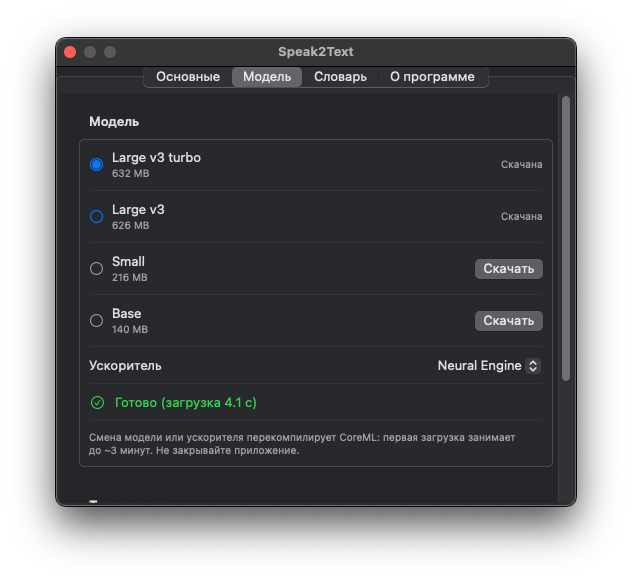
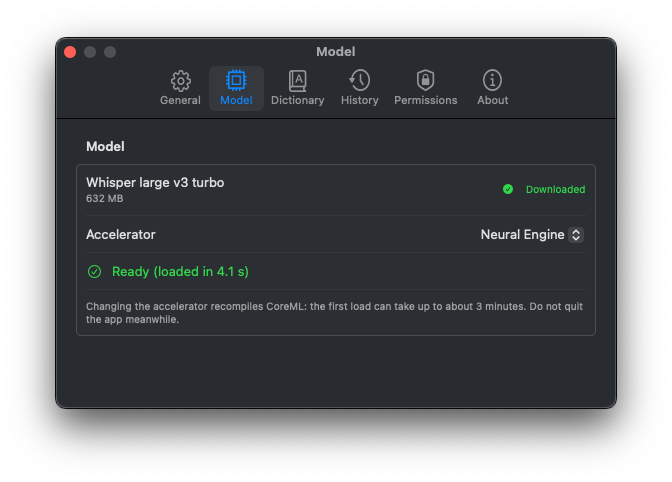
Docs and screenshots for the new settings, history and sounds

diff --git a/docs/SPEC.md b/docs/SPEC.md
@@ -1,6 +1,6 @@
 # Speak2Text — техзадание v0.1 (только macOS)
 
-Локальная диктовка: держишь клавишу, говоришь, отпускаешь, и текст вставляется туда, где стоит курсор.
+Локальная диктовка: нажимаешь клавишу, говоришь, нажимаешь ещё раз (или отпускаешь, в режиме удержания), и текст вставляется туда, где стоит курсор.
 Распознавание: WhisperKit на Neural Engine, без облака.
 
 ## Основа
@@ -9,15 +9,16 @@
 - Bundle ID `io.github.vlad-anisov.speak2text`, версия `0.1.0`.
 - Подпись: `Apple Development: Uladzislau Anisau (P3W3R69UM6)`. Подпись постоянная, поэтому разрешения TCC переживают пересборку.
 - Установка: `~/Applications/Speak2Text.app`, без sudo.
-- Модель по умолчанию — `openai_whisper-large-v3-v20240930_turbo_632MB`. Уже скачана в `~/Documents/huggingface/models/argmaxinc/whisperkit-coreml/`: сначала искать там, потом в `~/Library/Application Support/Speak2Text/Models`.
+- Единственная модель — `openai_whisper-large-v3-v20240930_turbo_632MB`. Уже скачана в `~/Documents/huggingface/models/argmaxinc/whisperkit-coreml/`: сначала искать там, потом в `~/Library/Application Support/Speak2Text/Models`.
 - Интерфейс на английском и русском, язык по системе.
 
 ## Функции
 1. **Меню-бар.**
    - Монохромная template-иконка.
-   - Пункты: статус, «Настройки…», «Проверить обновления…», «Открыть лог», «Выход».
+   - Левый клик по иконке открывает окно настроек (без выпадающего меню); если приложение уже открыто, окно выходит на передний план. Во время записи иконка меняется (`MenuBarIconRec`).
+   - Правый клик: маленькое меню «Настройки…» и «Выход».
    - Окна в Dock нет (LSUIElement).
-2. **Первый запуск.** Окно разрешений:
+2. **Первый запуск.** Настройки открываются на вкладке «Разрешения» (и при каждом запуске, если разрешений не хватает):
    - Микрофон, Мониторинг ввода, Универсальный доступ — у каждого статус ✓/✗ и кнопка «Открыть настройки»;
    - статус обновляется каждые 1–2 с.
 
@@ -26,8 +27,10 @@
    - Записать в настройках можно: одиночный модификатор с различением левого и правого (Option, Command, Control, Shift, Fn), любую обычную клавишу (F13, CapsLock и т.д.) или комбинацию (⌃⌥Space).
    - По умолчанию: правый Option.
 4. **Два режима.**
-   - Удержание (по умолчанию): держишь — запись, отпустил — вставка.
-   - Нажатие: первое нажатие — старт, второе — стоп и вставка. Esc — отмена.
+   - Нажатие (по умолчанию, «Нажать — старт, ещё раз — стоп»): первое нажатие — старт, второе — стоп и вставка. Esc — отмена.
+   - Удержание («Удерживать»): держишь — запись, отпустил — вставка.
+
+   В настройках под выбором режима одна строка-пояснение; в режиме нажатия она говорит, что Esc отменяет запись.
 
    Для модификатора в режиме удержания оставить отмену при нажатии другой клавиши или клика и при удержании меньше 0,4 с. Это защищает обычные сочетания вроде Option+буква.
 5. **Плашка (overlay).**
@@ -43,25 +46,19 @@
    - Панель не забирает фокус (non-activating NSPanel, ignoresMouseEvents), иначе вставка уйдёт не туда. Это критично.
    - Плашку можно выключить в настройках.
 6. **Заглушение других звуков** (включено по умолчанию).
-   - На время записи громкость основного устройства вывода опускается до заданного уровня (по умолчанию 0 %, ползунок 0–50 %), после — восстанавливается.
+   - На время записи громкость основного устройства вывода опускается до 0, после — восстанавливается. Заглушение включается после стартового звука, чтобы не заглушить его.
    - Если у устройства нет регулировки громкости, пропустить.
    - Исходную громкость сохранить на диск и восстановить при следующем запуске, если приложение упало во время записи.
 7. **Словарь.**
    - **Замены**: таблица «что распознано → на что заменить» (без учёта регистра, по границам слов), например «пайплайн → pipeline». Применяется к финальному тексту.
    - **Слова-паразиты** (выключено по умолчанию): редактируемый список («э», «ээ», «ну», «типа», «как бы», «короче»), удаляются вместе с запятыми рядом.
-   - **Подсказки модели (prompt)** (выключено по умолчанию): список терминов отдаётся как prompt в WhisperKit. Предупреждение в UI: «Может пропускать или дублировать слова — проверено в бенчмарке».
+   - В начале вкладки одна строка-пояснение. Подсказки модели (prompt) убраны: они пропускали и дублировали слова.
 8. **Модель и ускоритель.**
-   - Выбор модели из списка с размером: turbo 632MB (по умолчанию), large-v3 626MB, small, base. Скачивание с прогрессом через WhisperKit/HF.
+   - Одна модель: turbo 632MB. Если её нет, скачивание с прогрессом через WhisperKit/HF.
    - Язык: ru (по умолчанию), en, авто.
    - Ускоритель: Neural Engine (по умолчанию), GPU, CPU. Это ModelComputeOptions для энкодера и декодера.
-   - Смена ускорителя или модели требует перекомпиляции CoreML. Первый раз до ~3 мин, показывать «Подготовка модели…» с таймером.
-   - **Кнопка «Тест скорости»**:
-     - запись 5 с с микрофона (или встроенный образец);
-     - прогон на каждом ускорителе;
-     - таблица «загрузка, с / распознавание, с / текст»;
-     - кнопка «Использовать лучший».
-
-     Честно предупредить, что первый прогон каждого ускорителя долгий из-за компиляции.
+   - Смена ускорителя требует перекомпиляции CoreML. Первый раз до ~3 мин, показывать «Подготовка модели…» с таймером.
+   - Теста скорости нет.
 9. **Автозапуск при входе** (включено по умолчанию): SMAppService.mainApp. Старый LaunchAgent прототипа не трогать, его уберёт главная сессия.
 10. **Обновления.**
     - Sparkle 2 через SPM.
@@ -69,15 +66,23 @@
     - Ключ EdDSA: `generate_keys` из Sparkle, приватный ключ в Keychain, публичный ключ в Info.plist (`SUPublicEDKey`).
     - Скрипт `scripts/release.sh <версия>`: сборка, zip, подпись Sparkle, appcast.xml в `dist/`. Ничего не публикует.
     - Если Sparkle не собирается без Xcode, запасной вариант: проверка GitHub Releases API, а в меню «Доступна версия X» → открыть страницу релиза.
-11. **Звуки старта и стопа** (выключено по умолчанию): системные «Tink»/«Pop».
-12. **Лог**: `~/Library/Logs/Speak2Text/speak2text.log`. Формат строк как в прототипе: audio, final_wait, len, text.
+11. **Звуки старта и стопа** (включено по умолчанию): мягкие синтезированные «блипы» `Resources/start.wav` (восходящий) и `stop.wav` (нисходящий), ~120 мс, тихие, без щелчков. Генерирует `scripts/make_sounds.py`.
+    - Стартовый звук играет сразу при нажатии; пока он звучит (~0,16 с), сэмплы с микрофона отбрасываются, поэтому звук не попадает ни в распознавание, ни в историю. Заглушение включается после него. Цена: первые ~0,16 с речи после нажатия теряются.
+    - Стоп-звук играет после остановки записи и восстановления громкости.
+12. **История.**
+    - Каждая диктовка сохраняется в `~/Library/Application Support/Speak2Text/History/`: `<id>.json` (дата, длительность, итоговый текст, исходный текст до словаря) и `<id>.wav` (16 кГц, моно, 16 бит). Пустые результаты тоже сохраняются с аудио.
+    - Вкладка «История»: список от новых к старым (время, длительность, начало текста), поиск. Действия: копировать текст, воспроизвести/остановить, вставить снова (окно настроек скрывается, чтобы фокус вернулся), распознать заново текущей моделью, показать в Finder, удалить.
+    - Настройки: сохранять историю (по умолчанию да), срок хранения (всегда / 30 / 7 / 1 день, по умолчанию 30 дней), «Очистить историю» с подтверждением.
+13. **Лог**: `~/Library/Logs/Speak2Text/speak2text.log`. Формат строк как в прототипе: audio, final_wait, len, text.
 
 ## Настройки — окно
-Одно минималистичное SwiftUI-окно с вкладками:
-- **Основные**: клавиша, режим, язык, заглушение, плашка, звуки, автозапуск;
-- **Модель**: модель, ускоритель, тест;
-- **Словарь**;
-- **О программе**: версия, «Проверить обновления», ссылка на GitHub.
+Стандартное окно настроек macOS: NSTabViewController со стилем `.toolbar` (иконки SF Symbols), внутри SwiftUI Form `.grouped`. Вкладки:
+- **Основные** (gear): клавиша (кейкап-чип: клик → «Нажмите клавишу…», Esc отменяет, ⓧ сбрасывает на правый Option), режим, язык, заглушение, звуки, плашка, автозапуск, «Выйти из Speak2Text»;
+- **Модель** (cpu): модель и скачивание, ускоритель;
+- **Словарь** (character.book.closed): замены, слова-паразиты;
+- **История** (clock.arrow.circlepath);
+- **Разрешения** (lock.shield): статус ✓/✗ у каждого разрешения;
+- **О программе** (info.circle): версия, «Проверить обновления», ссылка на GitHub, «Открыть лог».
 
 Хранение — UserDefaults. Изменения применяются сразу, без перезапуска.
 

diff --git a/README.md b/README.md
@@ -1,13 +1,13 @@
 # Speak2Text
 
-Local push-to-talk dictation for macOS. Hold a hotkey, speak, release: the text is typed into the app you were using. Speech recognition runs fully on-device with [WhisperKit](https://github.com/argmaxinc/WhisperKit) (Core ML), with live partial results so the final text appears about a second after you stop talking. Menu bar app, no Dock icon.
+Local push-to-talk dictation for macOS. Press a hotkey, speak, press it again (or hold it and release): the text is typed into the app you were using. Speech recognition runs fully on-device with [WhisperKit](https://github.com/argmaxinc/WhisperKit) (Core ML), with live partial results so the final text appears about a second after you stop talking. Menu bar app, no Dock icon: click the icon to open the settings.
 
 Requires macOS 14+ on Apple Silicon.
 
 ## Install
 
 1. Build it (see below) or download `Speak2Text-<version>.zip` from the releases page and move `Speak2Text.app` to `~/Applications`.
-2. Launch it and grant the permissions in the first-run window.
+2. Launch it and grant the permissions on the Permissions tab that opens on first run.
 3. The first model load compiles Core ML for the Neural Engine and takes up to ~3 minutes. Later launches take a few seconds. Do not quit the app meanwhile.
 
 ## Build
@@ -34,13 +34,22 @@ Releases: `scripts/release.sh <version>` builds, zips into `dist/` and generates
 - **Input Monitoring** to see the global hotkey.
 - **Accessibility** to paste the text (Cmd+V) into the active app.
 
-The permissions window shows the status of each and opens the right System Settings pane. Text is delivered via the clipboard and the previous clipboard contents are restored right after pasting.
+The Permissions tab shows the status of each and opens the right System Settings pane. Text is delivered via the clipboard and the previous clipboard contents are restored right after pasting.
 
 ## Settings
 
-- **General**: hotkey (any key, left/right modifiers, combos; default right Option), mode (hold or toggle; Esc cancels), language (ru / en / auto), mute system audio while recording (with restore, also after a crash), overlay, sounds, launch at login.
-- **Model**: Whisper model (download on demand), accelerator (Neural Engine / GPU / CPU), speed test.
-- **Dictionary**: replacements, filler words to remove, and terms passed to the model as a prompt.
-- **About**: version and update check (Sparkle).
+Click the menu bar icon to open the settings (right-click for Settings / Quit).
+
+- **General**: hotkey (click the key chip and press any key, left/right modifier or combo; default right Option; Esc cancels, ⓧ resets), mode (press to start/stop, default, Esc cancels; or hold to talk), language (ru / en / auto), mute other sounds while recording (to 0, restored afterwards, also after a crash), soft start/stop sounds (on by default), overlay, launch at login.
+- **Model**: one model, Whisper large-v3 turbo 632 MB (downloaded on demand, with progress), accelerator (Neural Engine / GPU / CPU).
+- **Dictionary**: replacements and filler words to remove.
+- **History**: every dictation is saved with its audio (16 kHz mono wav) in `~/Library/Application Support/Speak2Text/History/`, including empty results. Search, copy, play, paste again, re-transcribe, show in Finder, delete. Keep forever / 30 / 7 / 1 day (default 30), or turn it off.
+- **Permissions**: status of each permission.
+- **About**: version, update check (Sparkle), GitHub link, log.
+
+![General](docs/screenshots/settings-general.png)
+![History](docs/screenshots/settings-history.png)
+
+The start sound is played before muting and the microphone is ignored while it sounds (about 0.16 s), so the sound never reaches the transcription. Regenerate the sounds with `python3 scripts/make_sounds.py`.
 
 Logs: `~/Library/Logs/Speak2Text/speak2text.log`.
